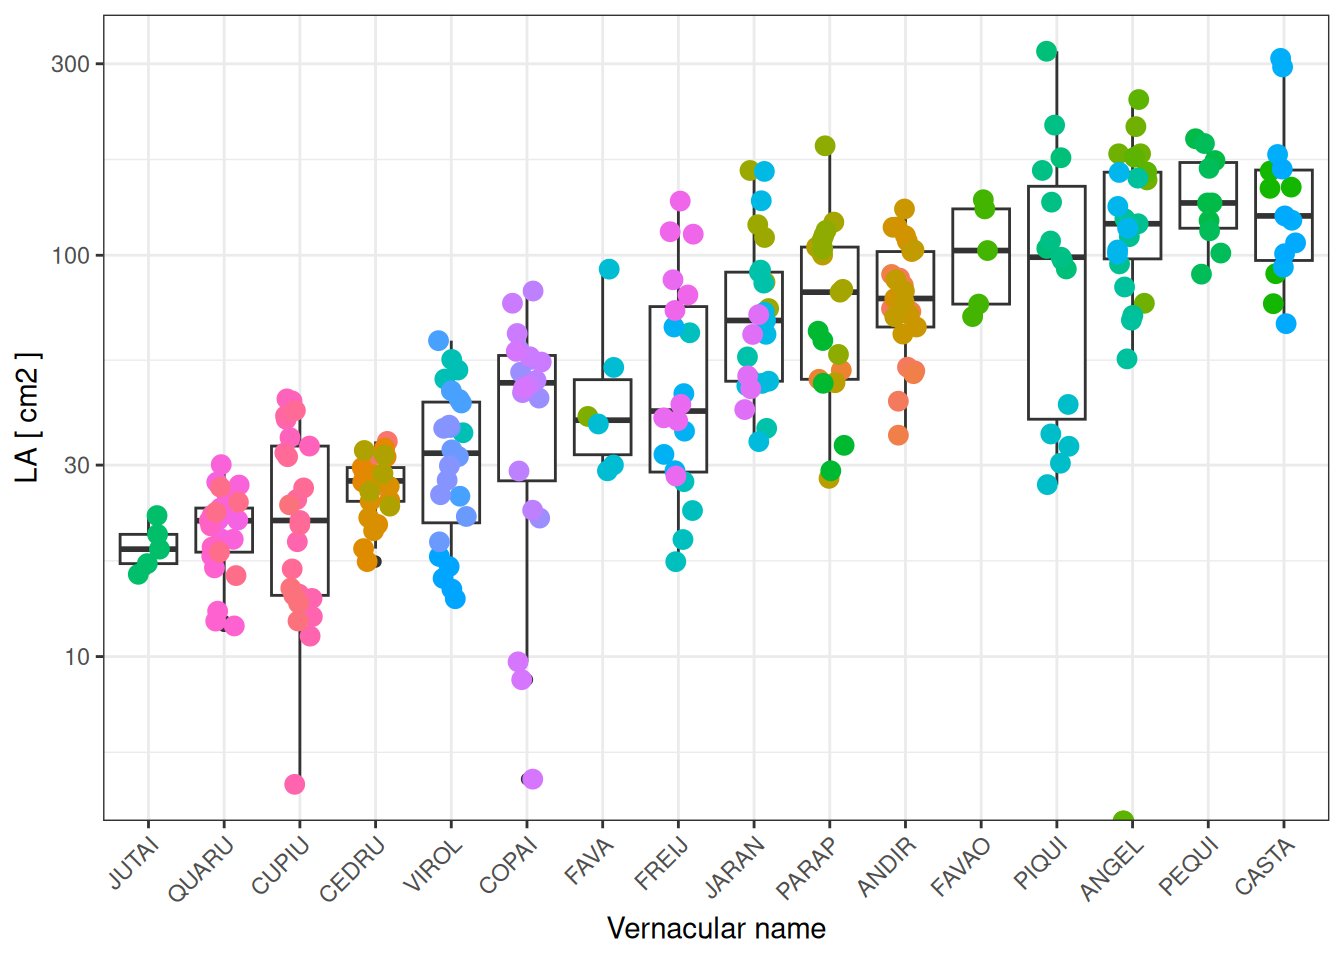
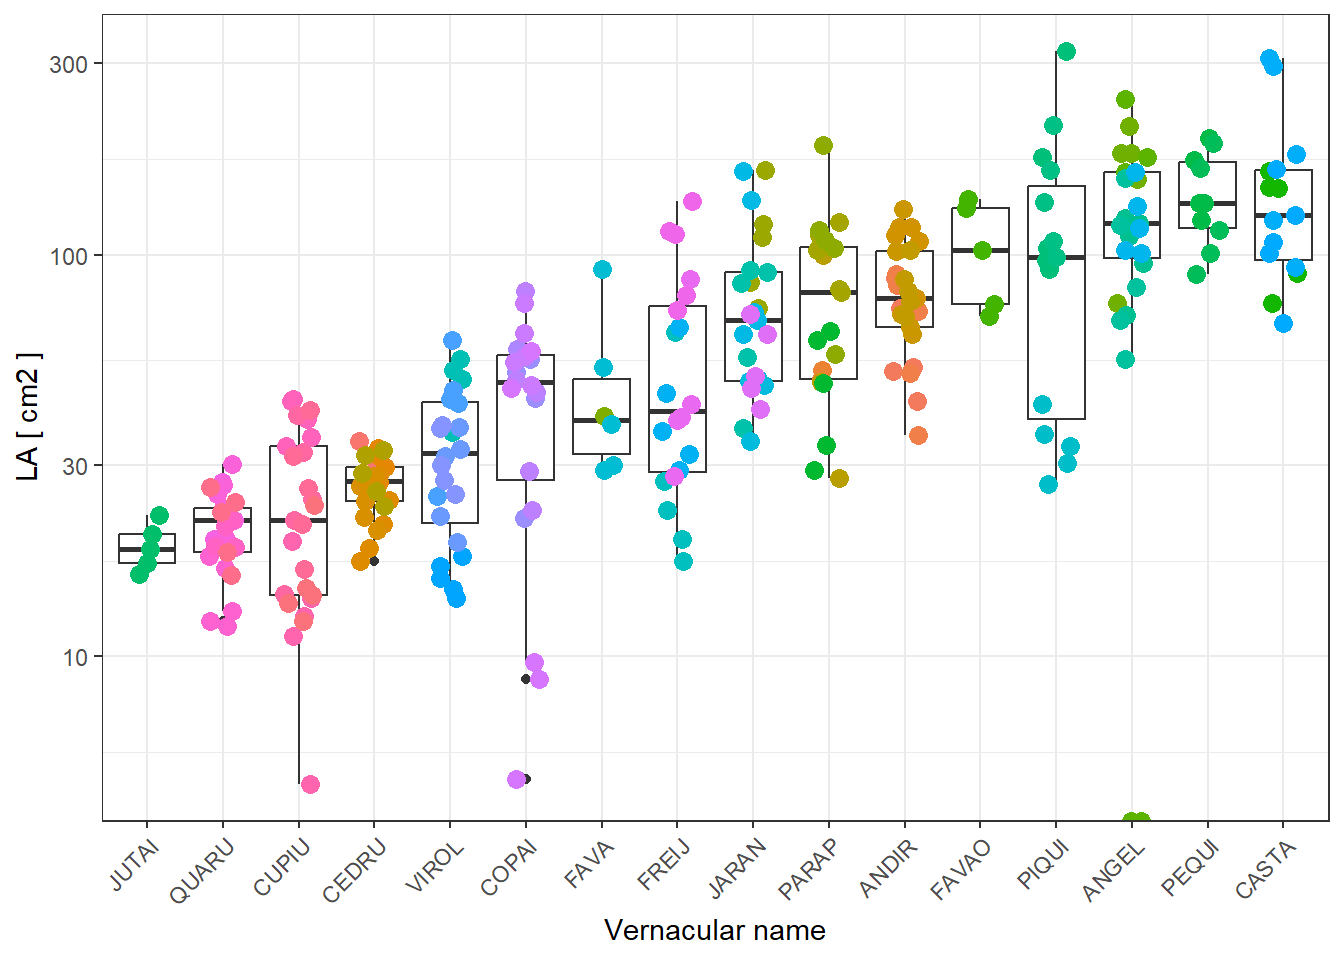
strat a page for file preparation and during field work.

diff --git a/docs/14_lab_files.html b/docs/14_lab_files.html
@@ -2,7 +2,7 @@
 <html xmlns="http://www.w3.org/1999/xhtml" lang="en" xml:lang="en"><head>
 
 <meta charset="utf-8">
-<meta name="generator" content="quarto-1.10.18">
+<meta name="generator" content="quarto-1.9.38">
 
 <meta name="viewport" content="width=device-width, initial-scale=1.0, user-scalable=yes">
 
@@ -12,13 +12,10 @@
 /* Default styles provided by pandoc.
 ** See https://pandoc.org/MANUAL.html#variables-for-html for config info.
 */
+code{white-space: pre-wrap;}
 span.smallcaps{font-variant: small-caps;}
-div.columns{display: flex; gap: 1.5em;}
-div.column{flex: auto;}
-@media screen {
-div.columns{gap: min(4vw, 1.5em);}
-div.column{overflow-x: auto;}
-}
+div.columns{display: flex; gap: min(4vw, 1.5em);}
+div.column{flex: auto; overflow-x: auto;}
 div.hanging-indent{margin-left: 1.5em; text-indent: -1.5em;}
 ul.task-list{list-style: none;}
 ul.task-list li input[type="checkbox"] {
@@ -44,10 +41,10 @@ ul.task-list li input[type="checkbox"] {
 <script src="site_libs/quarto-html/tippy.umd.min.js"></script>
 <script src="site_libs/quarto-html/anchor.min.js"></script>
 <link href="site_libs/quarto-html/tippy.css" rel="stylesheet">
-<link href="site_libs/quarto-html/quarto-syntax-highlighting-64a204ab8560d761af7679ceaba22944.css" rel="stylesheet" id="quarto-text-highlighting-styles">
+<link href="site_libs/quarto-html/quarto-syntax-highlighting-15634bcf2e68342d4ad2dfa704d543f6.css" rel="stylesheet" id="quarto-text-highlighting-styles">
 <script src="site_libs/bootstrap/bootstrap.min.js"></script>
 <link href="site_libs/bootstrap/bootstrap-icons.css" rel="stylesheet">
-<link href="site_libs/bootstrap/bootstrap-f2e609f69be186d5c4c9edbe573f62a8.min.css" rel="stylesheet" append-hash="true" id="quarto-bootstrap" data-mode="light">
+<link href="site_libs/bootstrap/bootstrap-9e3e5b9121e68b3f077afb32f2c64d95.min.css" rel="stylesheet" append-hash="true" id="quarto-bootstrap" data-mode="light">
 <script id="quarto-search-options" type="application/json">{
   "location": "sidebar",
   "copy-button": false,
@@ -229,8 +226,23 @@ ul.task-list li input[type="checkbox"] {
 </nav>
 <div id="quarto-sidebar-glass" class="quarto-sidebar-collapse-item" data-bs-toggle="collapse" data-bs-target=".quarto-sidebar-collapse-item"></div>
 <!-- margin-sidebar -->
-    <div id="quarto-margin-sidebar" class="sidebar margin-sidebar zindex-bottom">
-        
+    <div id="quarto-margin-sidebar" class="sidebar margin-sidebar">
+        <nav id="TOC" role="doc-toc" class="toc-active">
+    <h2 id="toc-title">Table of contents</h2>
+   
+  <ul>
+  <li><a href="#before-fieldwork" id="toc-before-fieldwork" class="nav-link active" data-scroll-target="#before-fieldwork">Before fieldwork:</a></li>
+  <li><a href="#before-starting-a-lab-work-day" id="toc-before-starting-a-lab-work-day" class="nav-link" data-scroll-target="#before-starting-a-lab-work-day">Before starting a lab work day:</a></li>
+  <li><a href="#during-field-and-lab-work-every-evening" id="toc-during-field-and-lab-work-every-evening" class="nav-link" data-scroll-target="#during-field-and-lab-work-every-evening">During field and lab work (every evening)</a>
+  <ul class="collapse">
+  <li><a href="#list-and-check-the-samples" id="toc-list-and-check-the-samples" class="nav-link" data-scroll-target="#list-and-check-the-samples">List and check the samples</a></li>
+  <li><a href="#scan-the-field-sheets" id="toc-scan-the-field-sheets" class="nav-link" data-scroll-target="#scan-the-field-sheets">Scan the field sheets</a></li>
+  <li><a href="#save-the-files-on-the-nas" id="toc-save-the-files-on-the-nas" class="nav-link" data-scroll-target="#save-the-files-on-the-nas">Save the files on the NAS</a></li>
+  <li><a href="#inspect-the-scans" id="toc-inspect-the-scans" class="nav-link" data-scroll-target="#inspect-the-scans">Inspect the scans</a></li>
+  </ul></li>
+  <li><a href="#after-field-and-lab-work" id="toc-after-field-and-lab-work" class="nav-link" data-scroll-target="#after-field-and-lab-work">After field and lab work</a></li>
+  </ul>
+</nav>
     </div>
 <!-- main -->
 <main class="content" id="quarto-document-content">
@@ -254,20 +266,99 @@ ul.task-list li input[type="checkbox"] {
 </header>
 
 
-<p><em>To be written (and prepare template)</em></p>
-<p>prepare the following files / folders:</p>
+<p><strong>to do : rename this page as the title is not suitable</strong></p>
+<section id="before-fieldwork" class="level2">
+<h2 class="anchored" data-anchor-id="before-fieldwork">Before fieldwork:</h2>
+<p>Print enough field sheets for wood core sample collection and leaf sample collection. The template of thes files can be found here (<strong>TO DO we had some last year, need to find them</strong>)</p>
+</section>
+<section id="before-starting-a-lab-work-day" class="level2">
+<h2 class="anchored" data-anchor-id="before-starting-a-lab-work-day">Before starting a lab work day:</h2>
+<p>Prepare the following files:</p>
 <ul>
-<li><code>dry_weight.xlsx</code> the leaf dry weights</li>
-<li><code>hydrated/</code> the leaf hydrated measurements</li>
-<li><code>leaves/</code> the sampling field sheets</li>
-<li><code>osmo/</code> the leaf hydrated measurements with osmometer</li>
-<li><code>plantation/</code> the inventories and GIS data of the plantation</li>
-<li><code>sample_taken.xlsx</code> the list of sampled individuals for leaf or wood</li>
-<li><code>scans/</code> the leaf hydrated scans</li>
-<li><code>teamplates/</code> template files for data acquisition</li>
+<li><p><code>yearmoday_osmo.xlsx</code> : an excel file per day to record the osmometer measurements. The template of this file can be found here (<strong>TO DO =&gt; see my comment on this issue, with a metadata tab</strong>). Make one file per day so it can be saved every evening, with the date format as follow <code>yearmoday_osmo.xlsx</code> (ex <code>20270120_osmo.xlsx</code>).</p></li>
+<li><p><code>yearmoday_hydrated.xlsx</code> : an excel file per day to record the fresh leaf measurements (thickness, weight and scan done). The template of this file can be found here (<strong>TO DO =&gt; see my comment on this issue, with a metadata tab</strong>). Make one file per day so it can be saved every evening, with the date format as follow <code>yearmoday_hydrated.xlsx</code> (ex <code>20270120_hydrated.xlsx</code>).</p></li>
+<li><p><code>yearmoday_dry_weight.xlsx</code> : an excel file per day to record the dry leaf weight. The template of this file can be found here (<strong>TO DO =&gt; see my comment on this issue, with a metadata tab</strong>). Make one file per day so it can be saved every evening (although the weighting will be done after oven drying), with the date format as follow <code>yearmoday_dry.xlsx</code> (ex <code>20270120_dry.xlsx</code>).</p></li>
 </ul>
+</section>
+<section id="during-field-and-lab-work-every-evening" class="level2">
+<h2 class="anchored" data-anchor-id="during-field-and-lab-work-every-evening">During field and lab work (every evening)</h2>
+<section id="list-and-check-the-samples" class="level3">
+<h3 class="anchored" data-anchor-id="list-and-check-the-samples">List and check the samples</h3>
+<p>Record the individuals on which samples have been taken in <code>yearmoday_sample_taken.xlsx</code> before putting them in the oven. The template of this file can be found here (<strong>TO DO =&gt; see my comment on this issue, with a metadata tab</strong>). Make one file per day so it can be saved every evening, with the date format as follow <code>yearmoday_sample_taken.xlsx</code> (ex <code>20270120_sample_taken.xlsx</code>).</p>
+</section>
+<section id="scan-the-field-sheets" class="level3">
+<h3 class="anchored" data-anchor-id="scan-the-field-sheets">Scan the field sheets</h3>
+<p><strong>to do decide naming</strong></p>
+</section>
+<section id="save-the-files-on-the-nas" class="level3">
+<h3 class="anchored" data-anchor-id="save-the-files-on-the-nas">Save the files on the NAS</h3>
+<p>Data files, field sheets and scans needs to be stored <strong>every evening</strong> on the NAS (<strong>TO DO: add the link to the NAS</strong>), following this file structure:</p>
+<ul>
+<li><code>dry_weight/</code> the leaf dry weights</li>
+<li><code>hydrated/</code> the leaf hydrated measurements</li>
+<li><code>field_sheets/</code> the sampling field sheets in pdf names with the day and the type of</li>
+<li><code>osmo/</code> the leaf hydrated measurements with osmometer</li>
+<li><code>scans/</code> the leaf hydrated scans</li>
+<li><code>sample_taken/</code>the list of wood and leaf samples taken</li>
+</ul>
+<p>All raw files stored on the NAS need to be lock (so put in read only mode) to avoid deleting or modifying it.</p>
+</section>
+<section id="inspect-the-scans" class="level3">
+<h3 class="anchored" data-anchor-id="inspect-the-scans">Inspect the scans</h3>
+<p>If time allow, process the scan (following this procedure <strong>to add: template files, and tell where to put it on the NAS</strong>) and inspect them manually to detect scan problems. If this is done on the day, a new scan can be redone if relevant. Here is the list of problems that should be looked for, and how to code them (<strong>to do, add pictures to illustrate</strong>)</p>
+<ul>
+<li><p><em>missing_part</em>: missing part in the leave due to herbivory or other damage. This can be seen on the <strong>mask or the raw scan</strong>:</p>
+<ul>
+<li><p><em>0</em>: no missing part</p></li>
+<li><p><em>1</em>: moderate missing part</p></li>
+<li><p><em>2</em>: big missing part</p></li>
+</ul></li>
+<li><p><em>anomaly</em>: any anomaly in the generated <strong>masks</strong>:</p>
+<ul>
+<li><p><em>ok</em>: no problem</p></li>
+<li><p><em>miss_petiolul</em>: for compound leaves, the petiolule is not included, while it should have been according to the protocol</p></li>
+<li><p><em>petiol_included</em>: the petiole has been included, while it should have been according to the protocol</p></li>
+<li><p><em>one_fol</em>: just one foliole when the species has compound leaves</p></li>
+<li><p><em>abn_area</em>: abnormal area, detected because they don’t have the shape of a leaf. Generally, it is because these areas correspond to some spaces between the folioles that are fully surrounded by leaf part, which are interpreted as holes and filled.</p></li>
+</ul></li>
+</ul>
+<div class="quarto-layout-panel" data-layout-ncol="3">
+<div class="quarto-layout-row">
+<div class="quarto-layout-cell" style="flex-basis: 33.3%;justify-content: center;">
+<p><img src="documents/Belterra_2025/ANGEL_5677_5_mask.png" class="img-fluid"></p>
+</div>
+<div class="quarto-layout-cell" style="flex-basis: 33.3%;justify-content: center;">
+<p><img src="documents/Belterra_2025/FAVAO_5685_2_mask.png" class="img-fluid"></p>
+</div>
+<div class="quarto-layout-cell" style="flex-basis: 33.3%;justify-content: center;">
+<p><img src="documents/Belterra_2025/COPAI_6897_4._mask.png" class="img-fluid"></p>
+</div>
+</div>
+</div>
+<ul>
+<li><p><em>touching</em>(<strong>to do, add pictures to illustrate</strong>):</p>
+<ul>
+<li><p><em>0</em> no part touching</p></li>
+<li><p><em>1</em> leaf touching leading to part of the leaf not taken into account,</p></li>
+<li><p><em>2</em> leaf touching leading to all the leaf not taken into account</p></li>
+</ul></li>
+<li><p><em>raw scan</em> (<strong>to do, add pictures to illustrate</strong>): problem seen on the <strong>raw scans</strong></p>
+<ul>
+<li><p><em>ok</em>: no problem (or very small area concerned)</p></li>
+<li><p><em>damaged</em>: part of the leaf or the whole leaf appears black/brown or yellowish on the scan or there are any other damages (except missing part of the leaf) suggesting that the leaf is decaying or is attacked by insects</p></li>
+<li><p><em>young</em>: the bright green colour of the leave compared to the other leaves from the individual and/or the species suggest non mature leaves</p></li>
+</ul></li>
+</ul>
+</section>
+</section>
+<section id="after-field-and-lab-work" class="level2">
+<h2 class="anchored" data-anchor-id="after-field-and-lab-work">After field and lab work</h2>
+<p>Do the data cleaning in the <a href="https://github.com/PlantForAdapt/functional">functional repository</a></p>
+<p>do the manual inspection if not done before…</p>
+<p><strong>TO DO carry on writing from here</strong></p>
 
 
+</section>
 
 </main> <!-- /main -->
 <script id="quarto-html-after-body" type="application/javascript">

diff --git a/docs/23_scans.html b/docs/23_scans.html
@@ -2,7 +2,7 @@
 <html xmlns="http://www.w3.org/1999/xhtml" lang="en" xml:lang="en"><head>
 
 <meta charset="utf-8">
-<meta name="generator" content="quarto-1.10.18">
+<meta name="generator" content="quarto-1.9.38">
 
 <meta name="viewport" content="width=device-width, initial-scale=1.0, user-scalable=yes">
 
@@ -12,13 +12,10 @@
 /* Default styles provided by pandoc.
 ** See https://pandoc.org/MANUAL.html#variables-for-html for config info.
 */
+code{white-space: pre-wrap;}
 span.smallcaps{font-variant: small-caps;}
-div.columns{display: flex; gap: 1.5em;}
-div.column{flex: auto;}
-@media screen {
-div.columns{gap: min(4vw, 1.5em);}
-div.column{overflow-x: auto;}
-}
+div.columns{display: flex; gap: min(4vw, 1.5em);}
+div.column{flex: auto; overflow-x: auto;}
 div.hanging-indent{margin-left: 1.5em; text-indent: -1.5em;}
 ul.task-list{list-style: none;}
 ul.task-list li input[type="checkbox"] {
@@ -79,10 +76,10 @@ pre > code.sourceCode > span > a:first-child::before { text-decoration: underlin
 <script src="site_libs/quarto-html/tippy.umd.min.js"></script>
 <script src="site_libs/quarto-html/anchor.min.js"></script>
 <link href="site_libs/quarto-html/tippy.css" rel="stylesheet">
-<link href="site_libs/quarto-html/quarto-syntax-highlighting-64a204ab8560d761af7679ceaba22944.css" rel="stylesheet" id="quarto-text-highlighting-styles">
+<link href="site_libs/quarto-html/quarto-syntax-highlighting-15634bcf2e68342d4ad2dfa704d543f6.css" rel="stylesheet" id="quarto-text-highlighting-styles">
 <script src="site_libs/bootstrap/bootstrap.min.js"></script>
 <link href="site_libs/bootstrap/bootstrap-icons.css" rel="stylesheet">
-<link href="site_libs/bootstrap/bootstrap-f2e609f69be186d5c4c9edbe573f62a8.min.css" rel="stylesheet" append-hash="true" id="quarto-bootstrap" data-mode="light">
+<link href="site_libs/bootstrap/bootstrap-9e3e5b9121e68b3f077afb32f2c64d95.min.css" rel="stylesheet" append-hash="true" id="quarto-bootstrap" data-mode="light">
 <script id="quarto-search-options" type="application/json">{
   "location": "sidebar",
   "copy-button": false,
@@ -277,7 +274,7 @@ pre > code.sourceCode > span > a:first-child::before { text-decoration: underlin
   <li><a href="#leaf-touching-the-side-of-the-scan" id="toc-leaf-touching-the-side-of-the-scan" class="nav-link" data-scroll-target="#leaf-touching-the-side-of-the-scan">Leaf touching the side of the scan</a></li>
   <li><a href="#damaged-and-young-leaves" id="toc-damaged-and-young-leaves" class="nav-link" data-scroll-target="#damaged-and-young-leaves">Damaged and young leaves</a></li>
   </ul></li>
-  <li><a href="#corrections" id="toc-corrections" class="nav-link" data-scroll-target="#corrections">Corrections</a></li>
+  <li><a href="#scan_cor_belt_2025" id="toc-scan_cor_belt_2025" class="nav-link" data-scroll-target="#scan_cor_belt_2025">Corrections</a></li>
   </ul>
 </nav>
     </div>
@@ -608,7 +605,7 @@ done</code></pre>
 <section id="leaf-touching-the-side-of-the-scan" class="level3">
 <h3 class="anchored" data-anchor-id="leaf-touching-the-side-of-the-scan">Leaf touching the side of the scan</h3>
 <ul>
-<li><em>touching</em>: <em>0</em> no part touching, <em>1</em> leaf touching leading to part of the leaf not taken into account, <em>2</em> leaf touching leading to all the leaf not taken into account <strong>=&gt; TO DO (Sylvain?) to be corrected by adding a black line with a photo editor?</strong></li>
+<li><em>touching</em>: <em>0</em> no part touching, <em>1</em> leaf touching leading to part of the leaf not taken into account, <em>2</em> leaf touching leading to all the leaf not taken into account</li>
 </ul>
 <p>Number of leaves touching leaves:</p>
 <div class="cell">
@@ -743,8 +740,8 @@ done</code></pre>
 </div>
 </section>
 </section>
-<section id="corrections" class="level2">
-<h2 class="anchored" data-anchor-id="corrections">Corrections</h2>
+<section id="scan_cor_belt_2025" class="level2">
+<h2 class="anchored" data-anchor-id="scan_cor_belt_2025">Corrections</h2>
 <p>Here is an automatic bash command to copy problematic files:</p>
 <div class="cell">
 <details class="code-fold">
